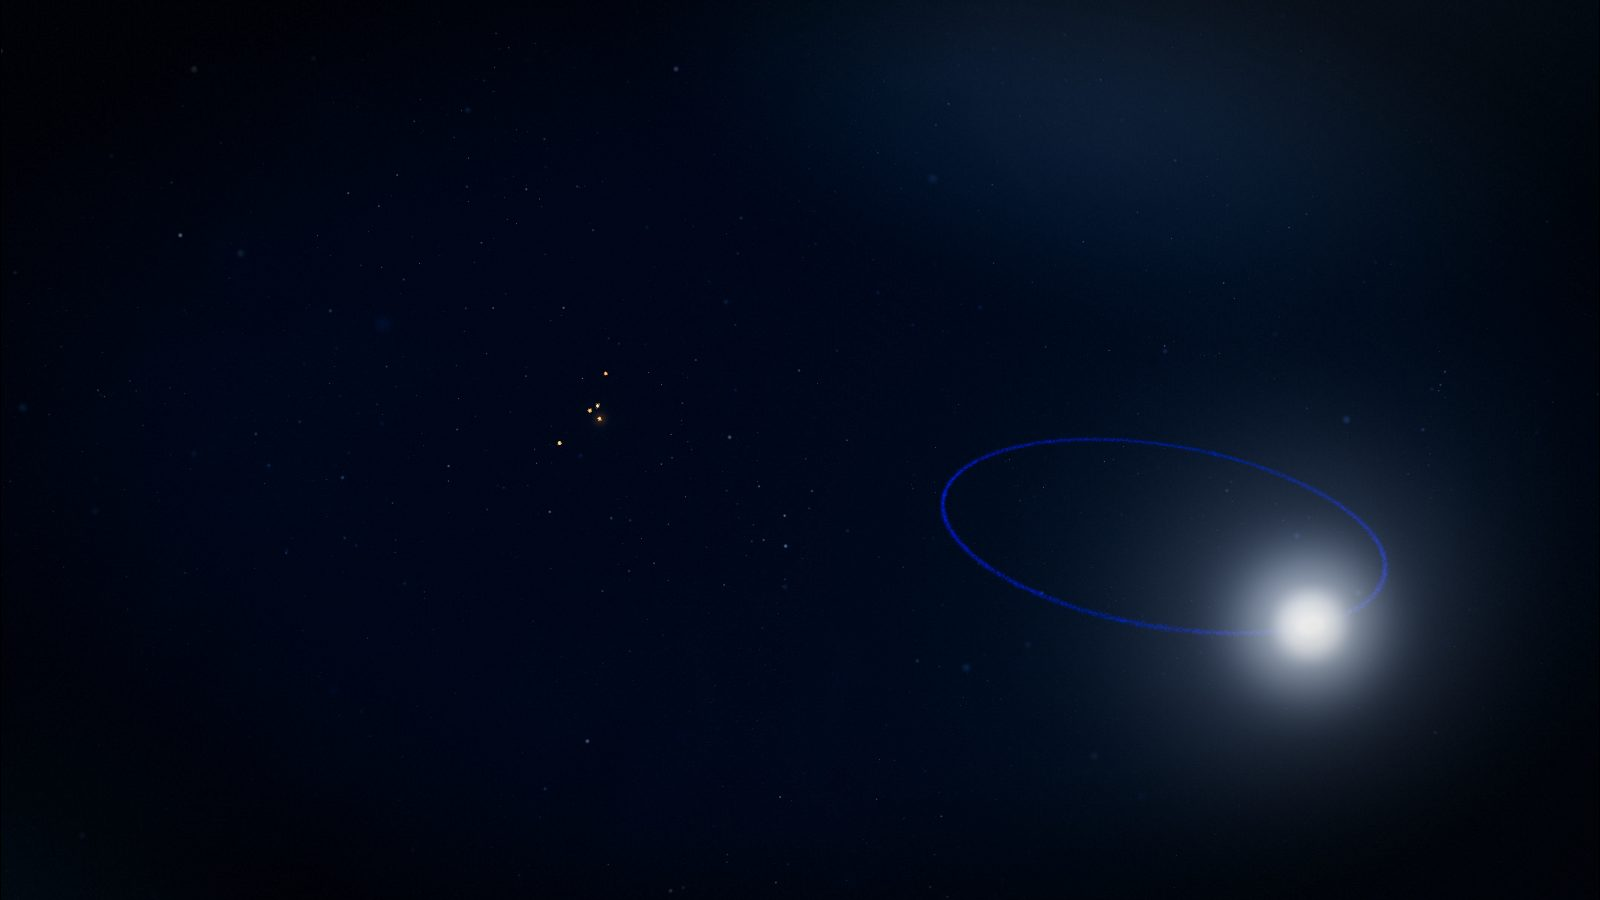
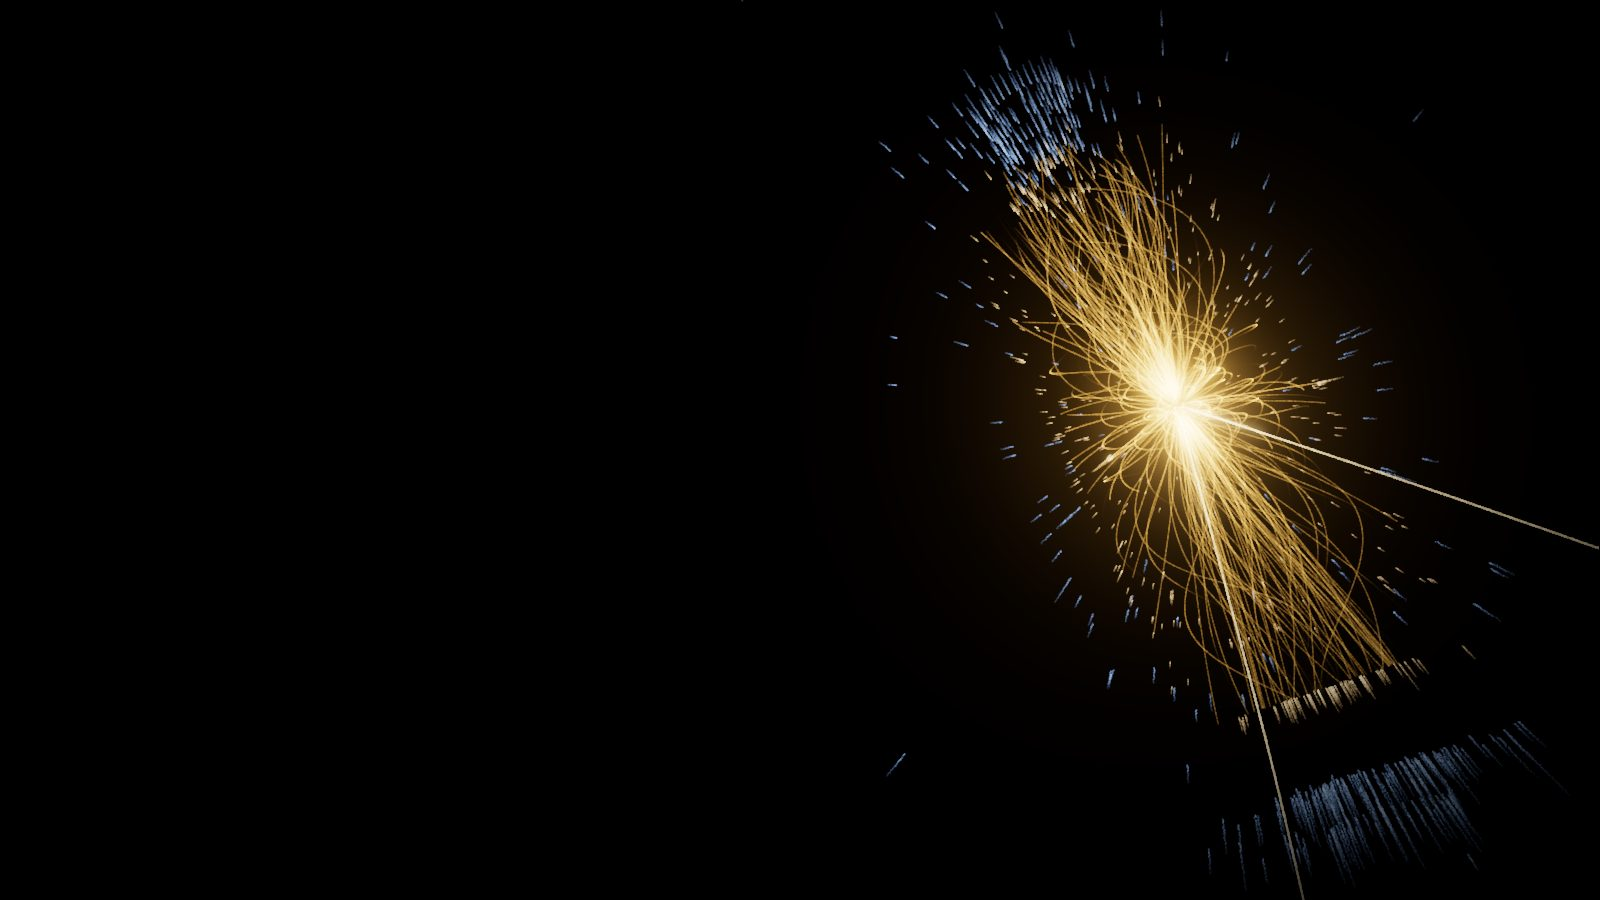
feat(opendata): the cover over the CMS crossing at full size, „CERN LHCb: atvirieji duomenys“ (owner, 18 Oct)
- the title in the owner's words (the headmatter's title, package.json too)
- a second, silent lhc-collision, `cover` (sound: false, grain 2.7), at the
  opening station; setup/CoverCollision.vue starts it on the cover (the slide
  itself only: not the overview's thumbnails or the next-slide preview, not in
  print); the cover's rate keys run it fast, then hold it, the camera swaying
- the pose from three judged framings and a framing agent: from high on the
  beam's −x side, the burst filling the right half, both muons flying away
  from the text, every letter 108 px or more from a lit pixel
- the cover's still remade; slide 4's run, its sound and its numbers unchanged;
  components/lhc-opening untouched

Claude-Session: https://claude.ai/code/session_015ci3AXr22gLvDXqMS8LhNF

diff --git a/talks/2026_10_21_OpenData/setup/CoverCollision.vue b/talks/2026_10_21_OpenData/setup/CoverCollision.vue
@@ -1,0 +1,21 @@
+<script setup>
+// <CoverCollision />: the cover's CMS crossing, the `cover` lhc-collision at the opening
+// station (space.json; `sound: false`, so the cover stays silent, and no captions:
+// slide 4's own run, `opening`, keeps its sound and its numbers). When the cover
+// becomes the current slide the crossing runs again from its run-in, fast, then
+// holds; leaving the slide lets it fade. Only the slide itself drives it: the
+// overview's thumbnails and the presenter's next-slide preview mount the cover too,
+// and would start the run again at the held rate. Not in print, where every page is
+// "current": the still (public/stills/01.jpg) shows it.
+import { onSlideEnter, onSlideLeave, useNav, useSlideContext } from '@slidev/client'
+import { bus } from '../components/lhc-opening/bus.js'
+
+const props = defineProps({ name: { type: String, default: 'cover' } })
+const { isPrintMode } = useNav()
+const { $renderContext } = useSlideContext()
+const live = () => ['slide', 'presenter'].includes($renderContext?.value)
+onSlideEnter(() => { if (live() && !isPrintMode.value) bus.set(props.name, 1) })
+onSlideLeave(() => { if (live()) bus.set(props.name, 0) })
+</script>
+
+<template><span class="cover-collision" aria-hidden="true" /></template>

diff --git a/talks/2026_10_21_OpenData/setup/main.ts b/talks/2026_10_21_OpenData/setup/main.ts
@@ -6,6 +6,7 @@ import { installOpening } from '../components/lhc-opening/index.js'
 import Grains from './Grains.vue'
 import Count from './Count.vue'
 import PeakRise from './PeakRise.vue'
+import CoverCollision from './CoverCollision.vue'
 
 // The talk's own forms (piles of terabyte spheres, streams to the people who
 // use them) join the engine's registry before the stage boots, and <Grains> lets
@@ -19,4 +20,5 @@ export default ({ app }) => {
   app.component('Grains', Grains)
   app.component('Count', Count)
   app.component('PeakRise', PeakRise)
+  app.component('CoverCollision', CoverCollision)   // the cover's silent CMS crossing
 }

diff --git a/talks/2026_10_21_OpenData/deck.md b/talks/2026_10_21_OpenData/deck.md
@@ -22,7 +22,7 @@ stage:
   palette: { base: blue, bg: '#000206' }   # a true black ground: the blue palette's navy read as haze
   sound: { hum: false, flight: false, clip: false }   # no transition sounds (owner, 13 Oct: "transitions were like driving sounds"); the collision's own sound and the clips' audio still play
   options: { reach: 30, nebula: 0.12, dustGain: 1.0, exposure: 1.1, vignette: 0.7, grain: 0.012, aberration: 0, bloom: 0.42 }   # reach: the 1 EB pose stands far back (27 from the store); the rest: deep, crisp, not hazy
-title: Atveriame LHCb duomenis
+title: 'CERN LHCb: atvirieji duomenys'
 info: |
   In Lithuanian. LHCb Vilnius, nominated for an open data award: a 6½-minute
   talk told inside one world of grains (slidev-addon-stage, blue palette,
@@ -48,16 +48,24 @@ info: |
   The talk: 21 October 2026.
 layout: cover
 space:
-  at: wide
-  dim: 0.25
+  at: [0.85, -400.27, -4.09]
+  dist: 10.5
+  yaw: -110
+  pitch: 66
+  sway: 3
+  dim: 0
+  ambient: 0
   hum: false
+  rate: [[0, 3], [1.0, 3], [1.3, 0.12], [1.8, 0.12], [2.3, 2.2], [5.5, 2.2], [6.8, 0.25]]
+  cameraRate: 1
 ---
 
 <Grains :set="{ vault: 0, team: 0 }" />
+<CoverCollision />
 
 # 2026 m. spalio 21 d.
 
-# Atveriame <span class="nt">LHCb</span> duomenis
+# CERN <span class="nt">LHCb</span>: atvirieji duomenys
 
 <div class="mt-md">Dr. Mindaugas Šarpis · <span class="nt">LHCb</span> Vilnius<br>Vilniaus universitetas</div>
 
@@ -70,10 +78,19 @@ atviraisiais duomenimis.
 Pradėkime nuo CERN.“
 
 The cover (the owner, 12 Oct, via the Scheduler: OpenData and Innoday get a
-cover after all; an exception to the no-titles rule, like „Ačiū“): the date,
-the title and the name line, as on Innoday's, over the collider dimmed
-(`wide`, the pose the LHCb clip returns to). The CERN clip buffers behind it.
-→ starts the opening, the world going dark as the clip gathers; that key is
+cover after all; an exception to the no-titles rule, like „Ačiū“; 18 Oct:
+"more impressive (maybe the full size cms collision)", and the title „CERN
+LHCb: atvirieji duomenys“): the date, the title and the name line over slide
+4's CMS crossing at full size, the `cover` lhc-collision at the opening station
+(silent, `sound: false`; slide 4 keeps its own run, its sound and its numbers).
+Each time the cover opens it runs again: the bunches rush in, flash, and the
+debris blooms out in about five seconds; then it holds, barely moving, while
+the camera sways. The pose (judged against two others, 18 Oct) looks down on it
+from high on the beam's −x side, so the burst fills the right half and both
+muons fly away from the text; every letter keeps more than 100 px of black
+round it, sway included. The cover's grains are a little heavier than slide
+4's (`grain: 2.7`, for a projector). The CERN clip buffers behind it.
+→ starts the opening, the collision fading as the clip gathers; that key is
 also the gesture browsers ask for before any sound.
 
 (~0.3 min)

diff --git a/talks/2026_10_21_OpenData/HANDOFF.md b/talks/2026_10_21_OpenData/HANDOFF.md
@@ -1,6 +1,7 @@
 # Open data talk: handoff
 
-**Language: Lithuanian** (owner, 2026-10-08). Title „Atveriame LHCb duomenis“.
+**Language: Lithuanian** (owner, 2026-10-08). Title „CERN LHCb: atvirieji
+duomenys“ (owner, 2026-10-18; „Atveriame LHCb duomenis“ before).
 Slides, labels and the spoken script (`Sakyti:`) are in Lithuanian; stage
 directions and these notes are in English. `lang: lt` in the headmatter; the
 lint runs in Lithuanian mode. Copy rules: lt-copy (origin/feat/talk-skills),
@@ -68,6 +69,25 @@ and the builders are in the talk's CLAUDE.md, "The deck now (r3)".
   (success). The URL answers 200, the live check passed (14 slides, none
   failed), and the live CSS carries the rule. `talk ready` had passed on
   7f89f2f with nothing skipped.
+- 18 Oct: the cover, the owner: "Can we make the cover slide more impressive
+  (maybe the full size cms collision) and say “CERN LHCb: atvirieji duomenys”".
+  The title is the owner's words (the headmatter's `title` too). Behind it, slide
+  4's CMS crossing at full size: a second, silent `lhc-collision` (`cover`,
+  `sound: false`, `grain: 2.7`) at the opening station, started by
+  setup/CoverCollision.vue; the cover's `rate` keys run it fast (the debris out
+  in about five seconds), then hold it while the camera sways. Three framings
+  (end on at the right, three-quarter, end on behind the title) went to three
+  judges (three-quarter first, end on second, behind the title last: "too
+  busy"); a framing agent then found the pose (`at: [0.85, -400.27, -4.09]`,
+  dist 10.5, yaw −110, pitch 66: from high on the beam's −x side, so both muons
+  fly away from the text), which two fresh judges preferred (8.2 and 8 against
+  7 and 6). Measured on the real build: no lit pixel within 108 px of a letter
+  in the bloom, 117 px in the hold (sway included); the flash never whitens the
+  frame (under 1 % near white); slides 2–4 unchanged. The cover's still
+  (public/stills/01.jpg) is new. Left as they are (the shared module's, not the
+  cover's): the bright core round the vertex, and the near endcap's light-blue
+  band at the bottom right; the burst runs off the top and bottom edges
+  (`dist: 11.5` would keep it whole, if the owner wants).
 
 - The way in:
   - CERN from above (slide 2), pushing into the ring.

diff --git a/talks/2026_10_21_OpenData/CLAUDE.md b/talks/2026_10_21_OpenData/CLAUDE.md
@@ -34,9 +34,17 @@ copy.
 
 Fourteen slides (HANDOFF.md has the history and the owner's open questions):
 
-1. Cover: the date, „Atveriame LHCb duomenis“ and the name line, over the
-   collider dimmed at `wide` (the owner, 12 Oct, via the Scheduler: a cover after
-   all, an exception like „Ačiū“). The CERN clip buffers behind it.
+1. Cover: the date, „CERN LHCb: atvirieji duomenys“ (the owner's words, 18 Oct)
+   and the name line, over the CMS crossing at full size (the owner, 18 Oct:
+   "more impressive (maybe the full size cms collision)"; a cover at all since
+   12 Oct, an exception like „Ačiū“). It is the `cover` lhc-collision at the
+   opening station, silent (`sound: false`), `grain: 2.7`, started by
+   `setup/CoverCollision.vue`: the run plays fast (the cover's `rate` keys), then
+   holds, the camera swaying ±3° from high on the beam's −x side (`at: [0.85,
+   -400.27, -4.09]`, dist 10.5, yaw −110, pitch 66), judged against end-on and
+   three-quarter views; both muons fly away from the text. Two slides in a row
+   with the same run's name would race (the old slide's leave stops the new
+   one's start), so it lives on the cover alone. The CERN clip buffers behind it.
 2. CERN from above (`cern_overview_short.mp4`); it pushes on into the ring.
 3. The LHC tunnel (`<LhcOpening part="tunnel" />`); it pushes on into the pipe.
 4. The CMS crossing in 4π (see above), the camera on its own `path`.
